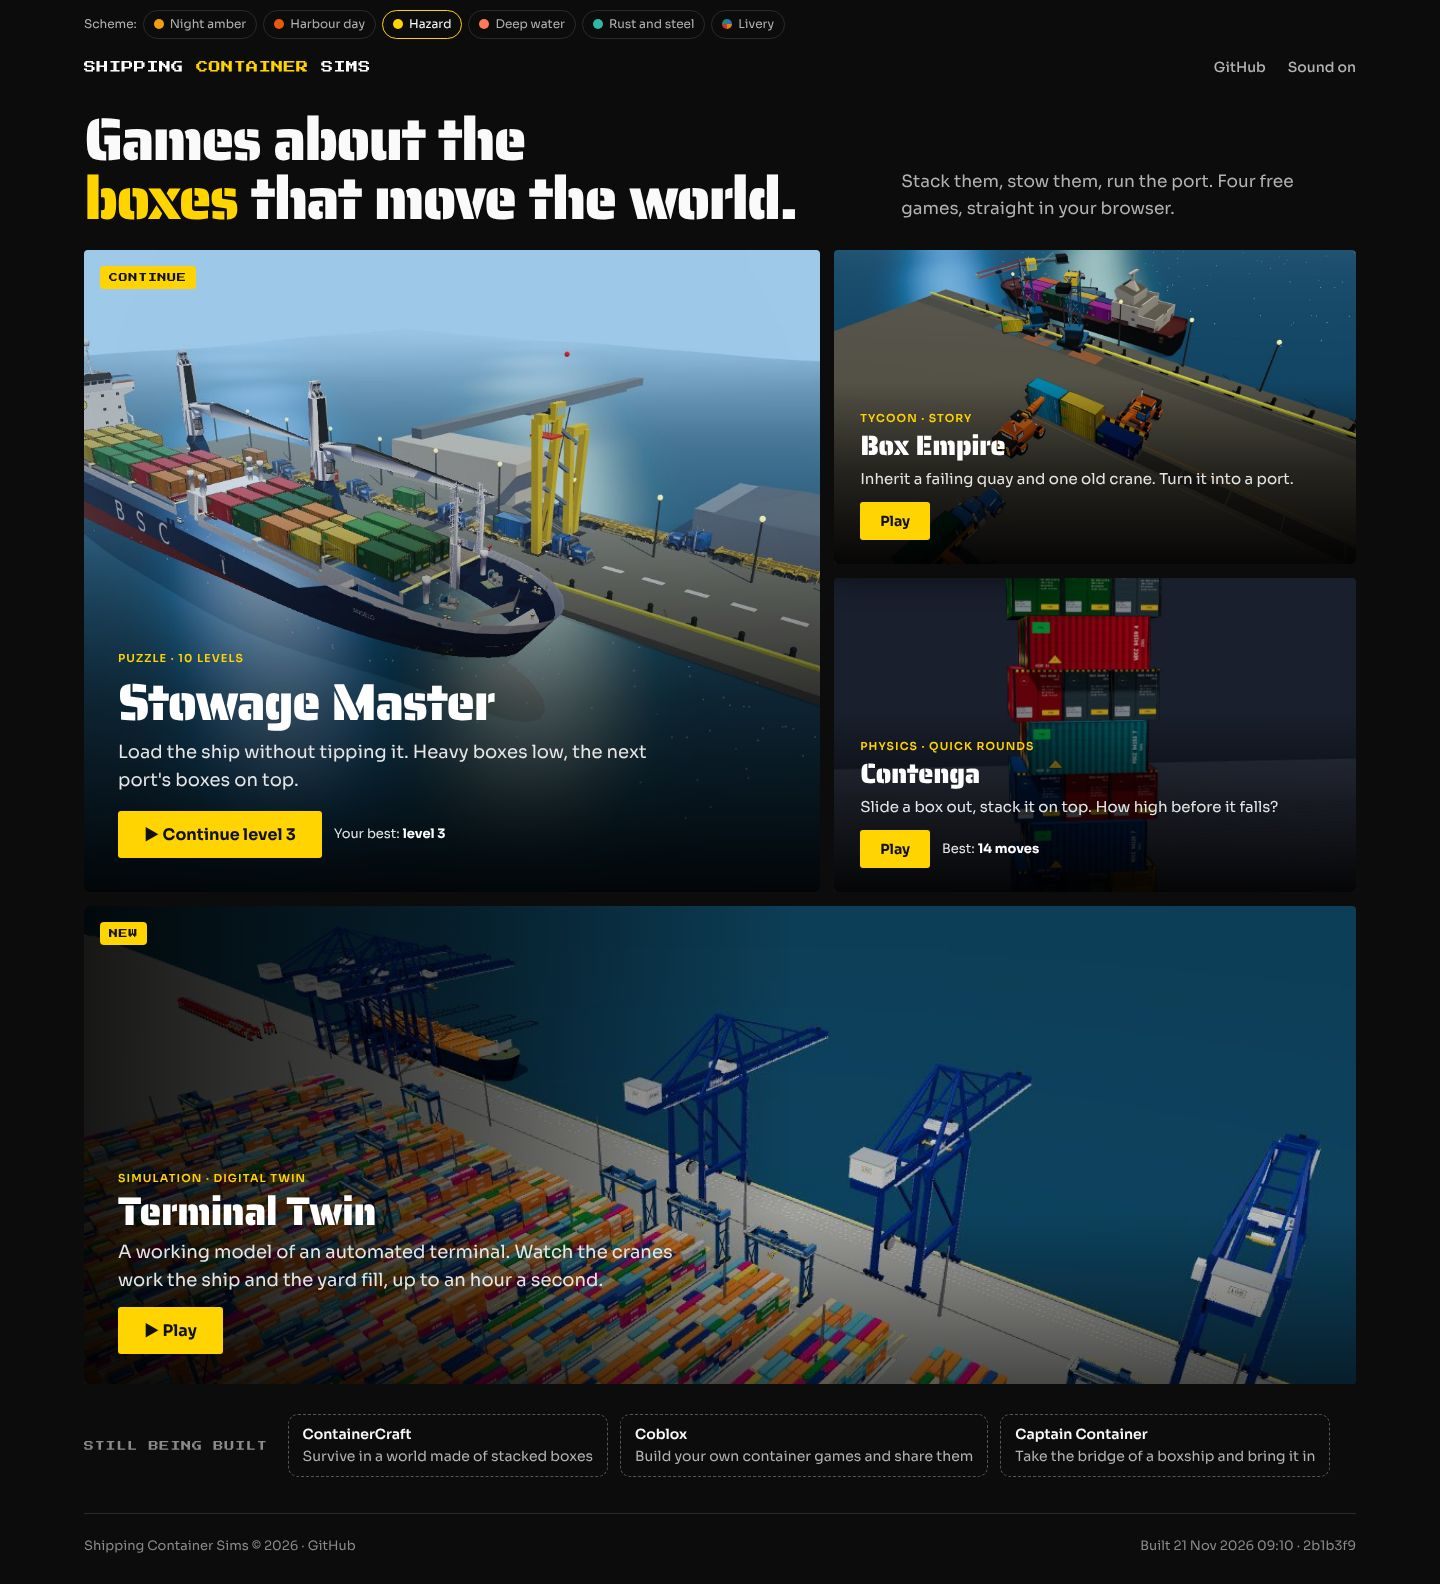
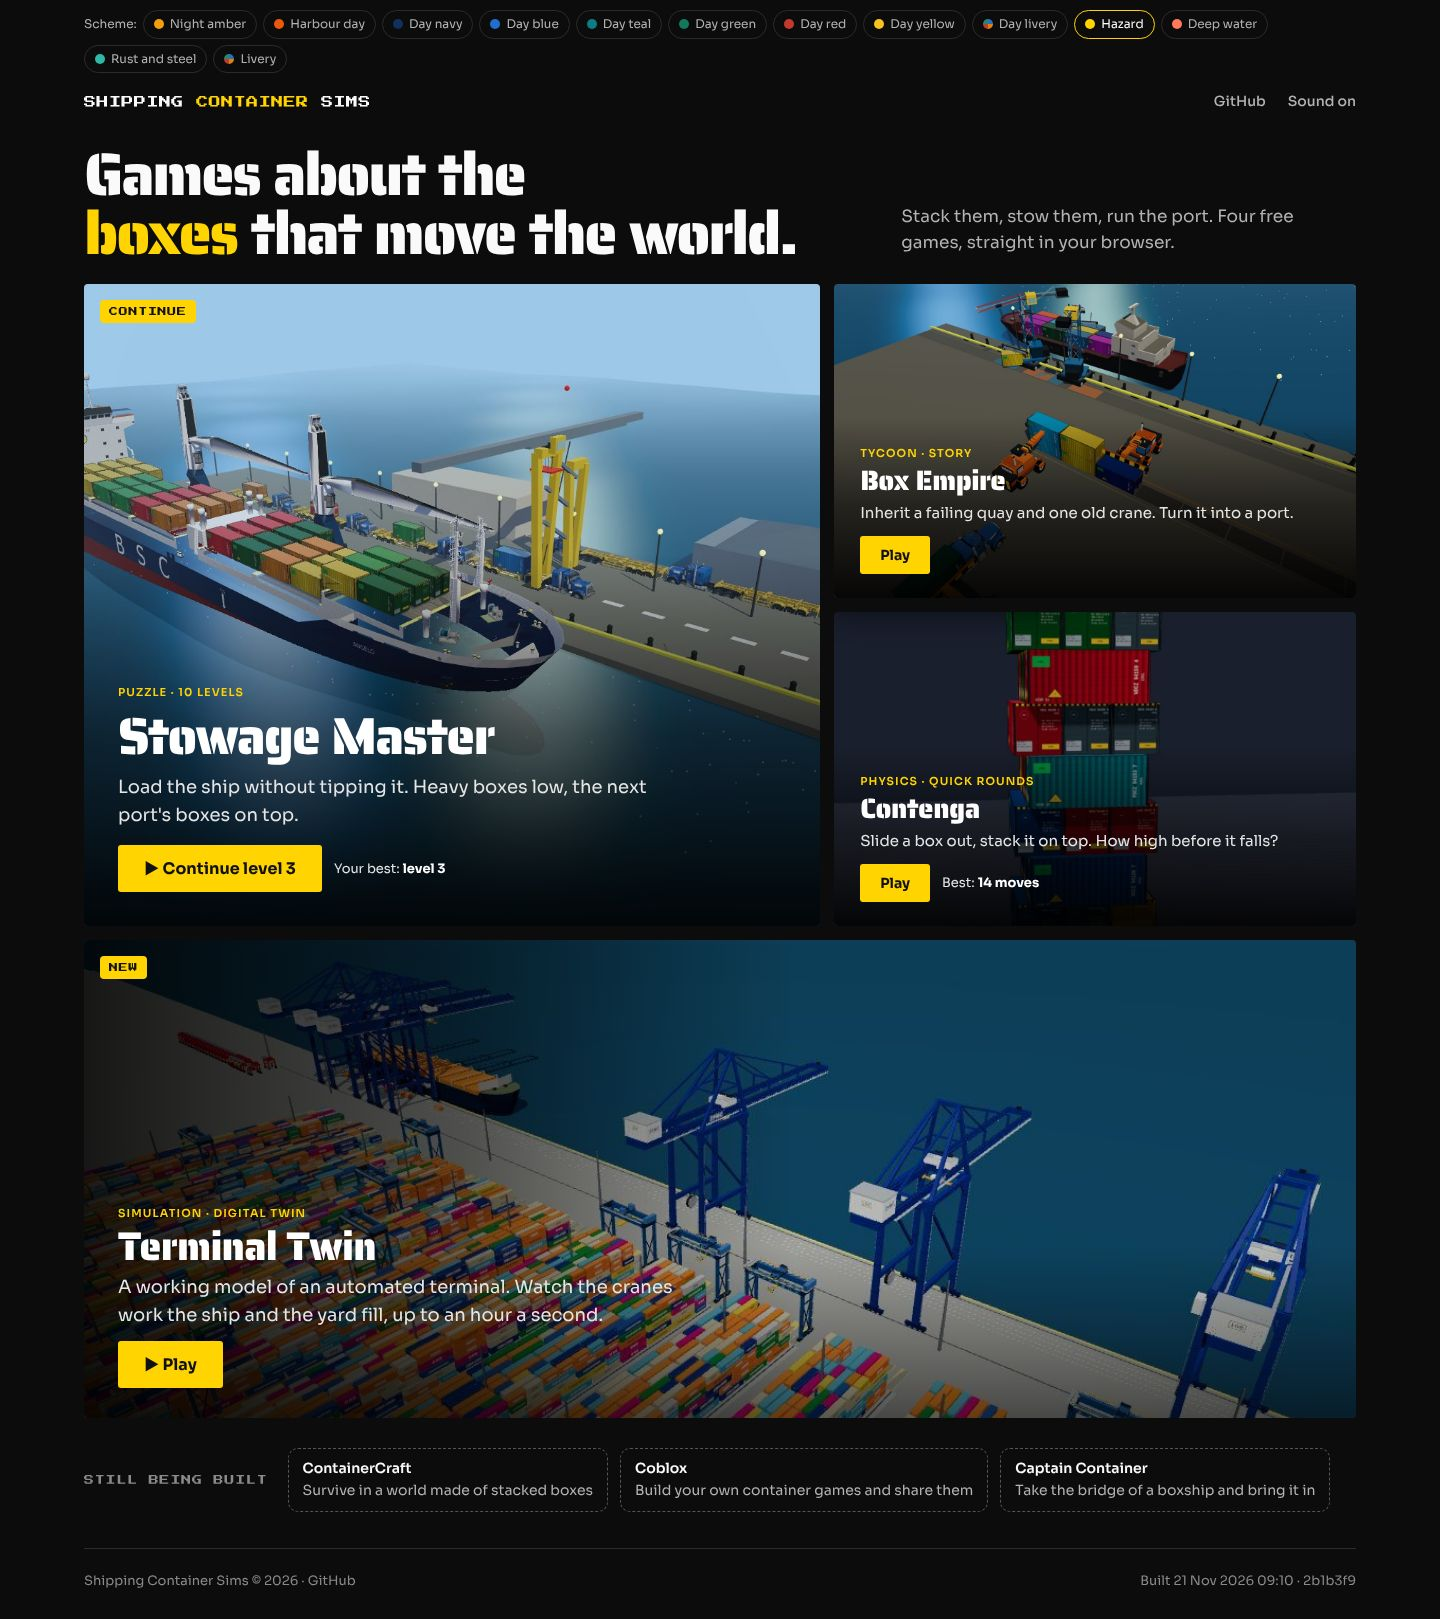
Add light colour variants of the poster wall mockup without orange
Claude-Session: https://claude.ai/code/session_0155BNjvehiTxQeqTRnLWRX8

diff --git a/docs/prototypes/home-redesign-2/f-bento.html b/docs/prototypes/home-redesign-2/f-bento.html
@@ -16,7 +16,7 @@
   --retro: 'Press Start 2P', monospace; --body: 'Sora', system-ui, sans-serif;
 }
 /* Scheme 2, Harbour day: a light page (paper and navy) with signal orange. The tiles keep a dark navy scrim. */
-[data-scheme=day] { --bg: #eef1f5; --line: #d3d9e3; --ink: #0d1b2e; --muted: #4a5870; --amber: #ea580c; --on-amber: #fff;
+[data-scheme^=day] { --bg: #eef1f5; --line: #d3d9e3; --ink: #0d1b2e; --muted: #4a5870; --amber: #ea580c; --on-amber: #fff;
   --scrim: 10, 24, 46; --kind: #ffb27a; --chip-line: #a9b4c6; --dim: #7b879c; --foot: #66738a; }
 /* Scheme 3, Hazard: black and safety yellow, square corners, stencil headings. Loud and very on-theme. */
 [data-scheme=hazard] { --bg: #0c0c0c; --line: #2b2b2b; --ink: #fafafa; --muted: #b3b3b3; --amber: #ffd400; --on-amber: #111;
@@ -31,12 +31,24 @@
 /* Scheme 6, Livery: the four container colours from mockup G, one per game, on graphite. Each tile has its own accent. */
 [data-scheme=livery] { --bg: #101215; --line: #262a31; --ink: #f2f4f7; --muted: #a5adba; --amber: #f6c21c; --on-amber: #1b1400;
   --scrim: 10, 12, 16; --chip-line: #3a404b; --dim: #6f7785; --foot: #6f7785; --radius: 8px; --btn-radius: 6px; }
-[data-scheme=livery] .t1 { --amber: #4a90e2; --on-amber: #fff; --kind: #9cc4ff; --stripe: #2a6fc4; }
-[data-scheme=livery] .t2 { --amber: #f59e0b; --kind: #ffc766; --stripe: #e0830c; }
-[data-scheme=livery] .t3 { --amber: #ef5a4c; --on-amber: #fff; --kind: #ff9d93; --stripe: #c23a2e; }
-[data-scheme=livery] .t4 { --amber: #2fbf8f; --on-amber: #022016; --kind: #8de6c4; --stripe: #1f8a6e; }
-[data-scheme=livery] .tile::after { content: ""; position: absolute; left: 0; right: 0; top: 0; height: 8px; z-index: 1; background: repeating-linear-gradient(90deg, var(--stripe) 0 12px, color-mix(in srgb, var(--stripe) 70%, #000) 12px 16px); }
-[data-scheme=livery] .badge { background: #f6c21c; color: #1b1400; top: 22px; }
+:is([data-scheme=livery],[data-scheme=day-livery]) .t1 { --amber: #4a90e2; --on-amber: #fff; --kind: #9cc4ff; --stripe: #2a6fc4; }
+:is([data-scheme=livery],[data-scheme=day-livery]) .t2 { --amber: #f59e0b; --kind: #ffc766; --stripe: #e0830c; }
+:is([data-scheme=livery],[data-scheme=day-livery]) .t3 { --amber: #ef5a4c; --on-amber: #fff; --kind: #ff9d93; --stripe: #c23a2e; }
+:is([data-scheme=livery],[data-scheme=day-livery]) .t4 { --amber: #2fbf8f; --on-amber: #022016; --kind: #8de6c4; --stripe: #1f8a6e; }
+:is([data-scheme=livery],[data-scheme=day-livery]) .tile::after { content: ""; position: absolute; left: 0; right: 0; top: 0; height: 8px; z-index: 1; background: repeating-linear-gradient(90deg, var(--stripe) 0 12px, color-mix(in srgb, var(--stripe) 70%, #000) 12px 16px); }
+:is([data-scheme=livery],[data-scheme=day-livery]) .badge { background: #f6c21c; color: #1b1400; top: 22px; }
+
+/* Light variants: the Harbour day page with a different accent instead of orange. --hl colours the words on the light
+   page; --amber is the button and badge colour; --kind is the small label on the dark tile scrim. */
+[data-scheme=day-navy]   { --amber: #12305e; --on-amber: #fff; --hl: #1f5fae; --kind: #9cc4ff; }
+[data-scheme=day-blue]   { --amber: #1f6fd1; --on-amber: #fff; --hl: #1f6fd1; --kind: #9cc4ff; }
+[data-scheme=day-teal]   { --amber: #0e7c86; --on-amber: #fff; --hl: #0e7c86; --kind: #7fe0d6; }
+[data-scheme=day-green]  { --amber: #13795b; --on-amber: #fff; --hl: #13795b; --kind: #8de6c4; }
+[data-scheme=day-red]    { --amber: #c23a2e; --on-amber: #fff; --hl: #c23a2e; --kind: #ff9d93; }
+[data-scheme=day-yellow] { --amber: #f6c21c; --on-amber: #1b1400; --hl: #0d1b2e; --kind: #ffd84d; }
+[data-scheme=day-yellow] .head h1 span { background: linear-gradient(transparent 58%, #f6c21c 58% 92%, transparent 92%); padding: 0 .06em; }
+[data-scheme=day-yellow] .logo b { background: #f6c21c; padding: 0 3px; }
+[data-scheme=day-livery] { --amber: #12305e; --on-amber: #fff; --hl: #12305e; --radius: 8px; --btn-radius: 6px; }
 
 .schemes { display: flex; flex-wrap: wrap; gap: 6px; align-items: center; padding: 10px 0 0; font-size: 12px; color: var(--muted); }
 .schemes a { border: 1px solid var(--line); border-radius: 999px; padding: 4px 10px; display: inline-flex; gap: 6px; align-items: center; }
@@ -48,12 +60,12 @@ a { color: inherit; text-decoration: none; }
 .wrap { max-width: 1320px; margin: 0 auto; padding: 0 24px; }
 .top { display: flex; justify-content: space-between; align-items: center; padding-block: 18px; }
 .logo { font: 12px/1.5 var(--retro); letter-spacing: .04em; }
-.logo b { color: var(--amber); font-weight: 400; }
+.logo b { color: var(--hl, var(--amber)); font-weight: 400; }
 .top nav { display: flex; gap: 22px; color: var(--muted); font-size: 14px; font-weight: 500; }
 
 .head { display: flex; justify-content: space-between; align-items: end; gap: 28px; padding-block: 14px 22px; }
 .head h1 { font: var(--head-weight) 60px/.98 var(--head-font); letter-spacing: -.04em; }
-.head h1 span { color: var(--amber); }
+.head h1 span { color: var(--hl, var(--amber)); }
 .head p { color: var(--muted); max-width: 36ch; font-size: 17px; padding-bottom: 6px; }
 
 .wall { display: grid; grid-template-columns: repeat(12, 1fr); grid-auto-rows: 150px; gap: 14px; }
@@ -117,6 +129,13 @@ footer { margin-top: 30px; border-top: 1px solid var(--line); padding-block: 22p
   <nav class="schemes" aria-label="Colour scheme (mockup only)">Scheme:
     <a href="?scheme=night"><i style="background:#f59e0b"></i>Night amber</a>
     <a href="?scheme=day"><i style="background:#ea580c"></i>Harbour day</a>
+    <a href="?scheme=day-navy"><i style="background:#12305e"></i>Day navy</a>
+    <a href="?scheme=day-blue"><i style="background:#1f6fd1"></i>Day blue</a>
+    <a href="?scheme=day-teal"><i style="background:#0e7c86"></i>Day teal</a>
+    <a href="?scheme=day-green"><i style="background:#13795b"></i>Day green</a>
+    <a href="?scheme=day-red"><i style="background:#c23a2e"></i>Day red</a>
+    <a href="?scheme=day-yellow"><i style="background:#f6c21c"></i>Day yellow</a>
+    <a href="?scheme=day-livery"><i style="background:conic-gradient(#2a6fc4 0 25%,#e0830c 0 50%,#c23a2e 0 75%,#1f8a6e 0)"></i>Day livery</a>
     <a href="?scheme=hazard"><i style="background:#ffd400"></i>Hazard</a>
     <a href="?scheme=sea"><i style="background:#ff7a59"></i>Deep water</a>
     <a href="?scheme=rust"><i style="background:#2fb8a6"></i>Rust and steel</a>

diff --git a/docs/prototypes/home-redesign-2/README.md b/docs/prototypes/home-redesign-2/README.md
@@ -23,12 +23,15 @@ Four more static mockups of the main menu (`src/pages/HomePage.vue`), a follow-u
 |---|---|
 | `night` (default) | The original: near-black navy with amber |
 | `day` | Light page (paper and navy) with signal orange; tiles keep a dark scrim so the words stay readable |
+| `day-navy`, `day-blue`, `day-teal`, `day-green`, `day-red` | The `day` page with that accent instead of orange, for the headline word and the buttons |
+| `day-yellow` | The `day` page with safety-yellow buttons; the headline word gets a yellow highlighter band, since yellow text is unreadable on white |
+| `day-livery` | The `day` page with each game in its own container colour, as in `livery` |
 | `hazard` | Black and safety yellow, square corners, stencil headings |
 | `sea` | Dark teal with a coral call to action, matching the sims' blue water |
 | `rust` | Warm corten brown, cream text, teal buttons |
 | `livery` | Graphite, and each game wears its container colour from mockup G (blue, orange, red, green) as a corrugated top edge and button |
 
-Renders: `shots/f-scheme-<name>-{desktop,phone}.jpg`, and all six side by side in `shots/f-schemes-sheet.jpg`.
+Renders: `shots/f-scheme-<name>-{desktop,phone}.jpg`, and the dark ones side by side in `shots/f-schemes-sheet.jpg`, the light ones in `shots/f-schemes-light-sheet.jpg` (top halves enlarged in `f-schemes-light-closeup.jpg`).
 
 Progress lines ("level 3", "14 moves") and the build stamp are example values.
 
